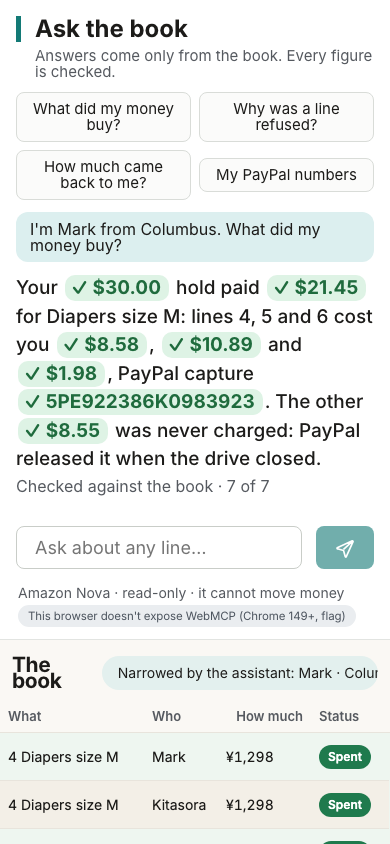
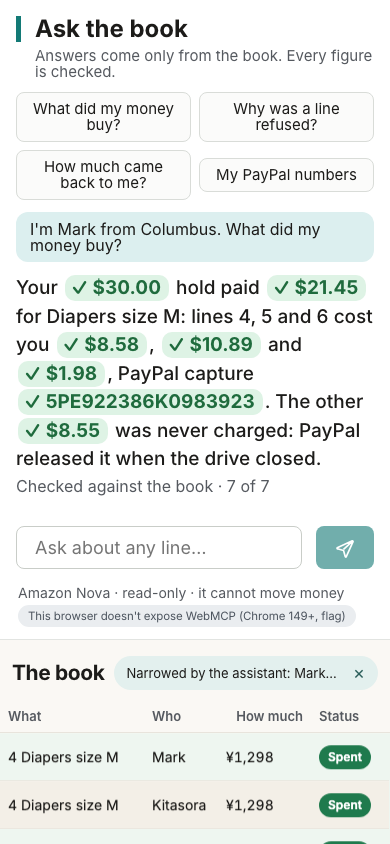
README: phone screenshot after the book-head fix; test counts (947 unit and integration, 86 browser)

diff --git a/README.md b/README.md
@@ -146,7 +146,7 @@ Full list with evidence: [`docs/platform-findings.md`](docs/platform-findings.md
 
 ## Red team
 
-30 attacks on the money path, each with its test: [`docs/red-team.md`](docs/red-team.md). All 30 hold; four did not when first tried and were fixed. 927 unit and integration tests, 83 browser tests.
+30 attacks on the money path, each with its test: [`docs/red-team.md`](docs/red-team.md). All 30 hold; four did not when first tried and were fixed. 947 unit and integration tests, 86 browser tests.
 
 ## Run it
 
